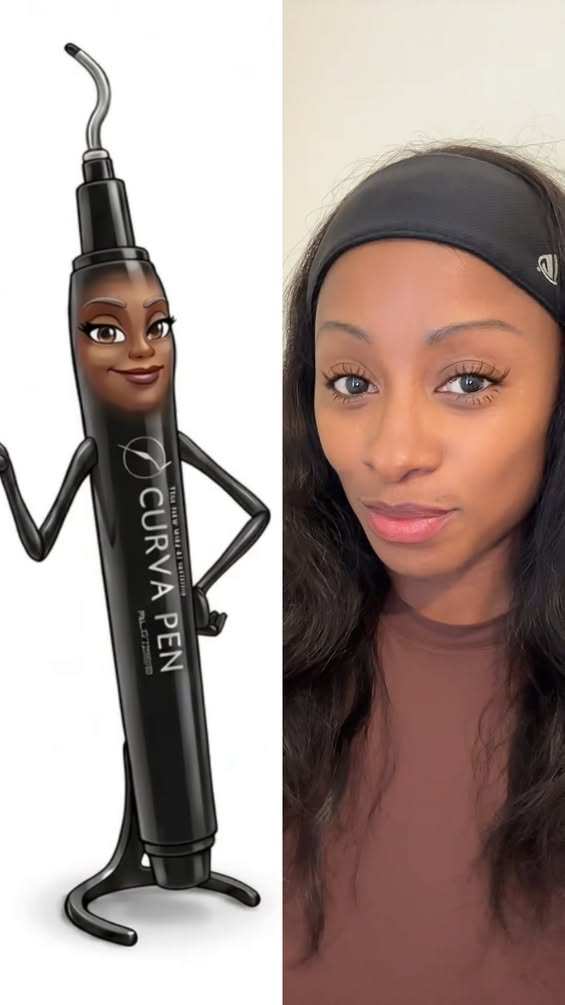
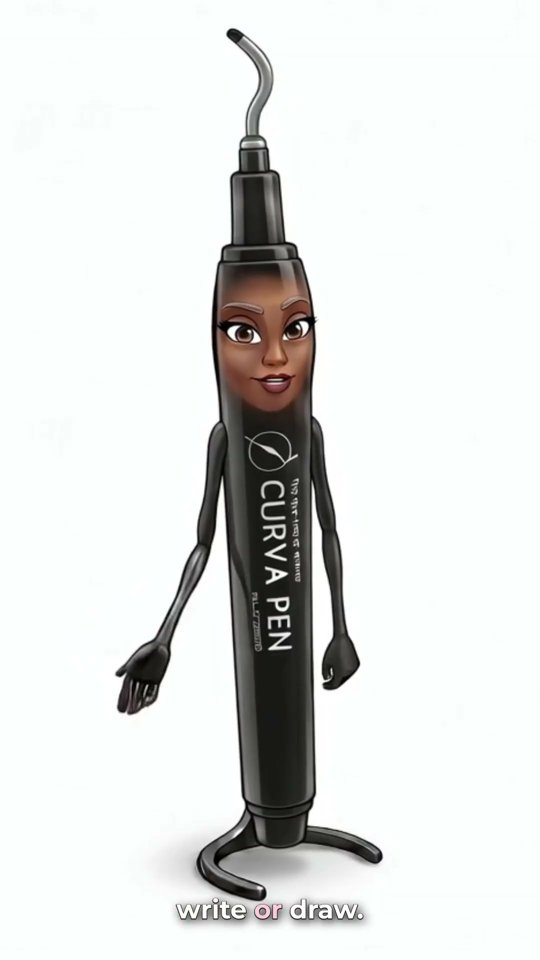
CurvaPen: Nibby YouTube short and hi-res art, stroke page short
Claude-Session: https://claude.ai/code/session_01Aqgv13NunFzq2Qc3W7ynfm

diff --git a/curvapen/hand-stroke-b.html b/curvapen/hand-stroke-b.html
@@ -246,7 +246,7 @@ ul.three p{color:var(--muted);font-size:15px}
 </div></section>
 </main><section id="video"><div class="w">
  <div class="sh c"><span class="k">See it work</span><h2>See how people hold it.</h2><p>Plays right here. Nobody gets sent off to YouTube and lost.</p></div>
- <div class="vids"><div class="vid"><button class="fr" type="button" aria-label="Play video: Stroke group" onclick="this.innerHTML='<iframe src=&quot;https://www.youtube-nocookie.com/embed/OgK0qSRckx8?autoplay=1&amp;rel=0&amp;playsinline=1&quot; title=&quot;CurvaPen video&quot; allow=&quot;autoplay; encrypted-media; picture-in-picture&quot; allowfullscreen></iframe>'"><img src="https://i.ytimg.com/vi/OgK0qSRckx8/hqdefault.jpg" alt="" loading="lazy" width="480" height="360"><span></span></button><div><h3>Stroke group</h3><p>CurvaPen at a stroke support group.</p></div></div><div class="vid"><button class="fr" type="button" aria-label="Play video: There&#x27;s no wrong way to hold it" onclick="this.innerHTML='<iframe src=&quot;https://www.youtube-nocookie.com/embed/ENOmntAvp0M?autoplay=1&amp;rel=0&amp;playsinline=1&quot; title=&quot;CurvaPen video&quot; allow=&quot;autoplay; encrypted-media; picture-in-picture&quot; allowfullscreen></iframe>'"><img src="https://i.ytimg.com/vi/ENOmntAvp0M/hqdefault.jpg" alt="" loading="lazy" width="480" height="360"><span></span></button><div><h3>There's no wrong way to hold it</h3><p>Overhand, underhand, resting hand. 30 seconds.</p></div></div></div>
+ <div class="vids"><div class="vid"><button class="fr" type="button" aria-label="Play video: Stroke recovery writing" onclick="this.innerHTML='<iframe src=&quot;https://www.youtube-nocookie.com/embed/1-OCb-0IiXI?autoplay=1&amp;rel=0&amp;playsinline=1&quot; title=&quot;CurvaPen video&quot; allow=&quot;autoplay; encrypted-media; picture-in-picture&quot; allowfullscreen></iframe>'"><img src="https://i.ytimg.com/vi/1-OCb-0IiXI/hqdefault.jpg" alt="" loading="lazy" width="480" height="360"><span></span></button><div><h3>Stroke recovery writing</h3><p>Writing again after a stroke, in 60 seconds.</p></div></div><div class="vid"><button class="fr" type="button" aria-label="Play video: There&#x27;s no wrong way to hold it" onclick="this.innerHTML='<iframe src=&quot;https://www.youtube-nocookie.com/embed/ENOmntAvp0M?autoplay=1&amp;rel=0&amp;playsinline=1&quot; title=&quot;CurvaPen video&quot; allow=&quot;autoplay; encrypted-media; picture-in-picture&quot; allowfullscreen></iframe>'"><img src="https://i.ytimg.com/vi/ENOmntAvp0M/hqdefault.jpg" alt="" loading="lazy" width="480" height="360"><span></span></button><div><h3>There's no wrong way to hold it</h3><p>Overhand, underhand, resting hand. 30 seconds.</p></div></div></div>
 </div></section>
 <section id="reviews" class="tint"><div class="w">
  <div class="sh"><span class="k">Reviews</span><h2>From people with hands like yours.</h2></div>

diff --git a/curvapen/hand-stroke.html b/curvapen/hand-stroke.html
@@ -246,7 +246,7 @@ ul.three p{color:var(--muted);font-size:15px}
 </div></section>
 </main><section id="video"><div class="w">
  <div class="sh c"><span class="k">See it work</span><h2>See how people hold it.</h2><p>Plays right here. Nobody gets sent off to YouTube and lost.</p></div>
- <div class="vids"><div class="vid"><button class="fr" type="button" aria-label="Play video: Stroke group" onclick="this.innerHTML='<iframe src=&quot;https://www.youtube-nocookie.com/embed/OgK0qSRckx8?autoplay=1&amp;rel=0&amp;playsinline=1&quot; title=&quot;CurvaPen video&quot; allow=&quot;autoplay; encrypted-media; picture-in-picture&quot; allowfullscreen></iframe>'"><img src="https://i.ytimg.com/vi/OgK0qSRckx8/hqdefault.jpg" alt="" loading="lazy" width="480" height="360"><span></span></button><div><h3>Stroke group</h3><p>CurvaPen at a stroke support group.</p></div></div><div class="vid"><button class="fr" type="button" aria-label="Play video: There&#x27;s no wrong way to hold it" onclick="this.innerHTML='<iframe src=&quot;https://www.youtube-nocookie.com/embed/ENOmntAvp0M?autoplay=1&amp;rel=0&amp;playsinline=1&quot; title=&quot;CurvaPen video&quot; allow=&quot;autoplay; encrypted-media; picture-in-picture&quot; allowfullscreen></iframe>'"><img src="https://i.ytimg.com/vi/ENOmntAvp0M/hqdefault.jpg" alt="" loading="lazy" width="480" height="360"><span></span></button><div><h3>There's no wrong way to hold it</h3><p>Overhand, underhand, resting hand. 30 seconds.</p></div></div></div>
+ <div class="vids"><div class="vid"><button class="fr" type="button" aria-label="Play video: Stroke recovery writing" onclick="this.innerHTML='<iframe src=&quot;https://www.youtube-nocookie.com/embed/1-OCb-0IiXI?autoplay=1&amp;rel=0&amp;playsinline=1&quot; title=&quot;CurvaPen video&quot; allow=&quot;autoplay; encrypted-media; picture-in-picture&quot; allowfullscreen></iframe>'"><img src="https://i.ytimg.com/vi/1-OCb-0IiXI/hqdefault.jpg" alt="" loading="lazy" width="480" height="360"><span></span></button><div><h3>Stroke recovery writing</h3><p>Writing again after a stroke, in 60 seconds.</p></div></div><div class="vid"><button class="fr" type="button" aria-label="Play video: There&#x27;s no wrong way to hold it" onclick="this.innerHTML='<iframe src=&quot;https://www.youtube-nocookie.com/embed/ENOmntAvp0M?autoplay=1&amp;rel=0&amp;playsinline=1&quot; title=&quot;CurvaPen video&quot; allow=&quot;autoplay; encrypted-media; picture-in-picture&quot; allowfullscreen></iframe>'"><img src="https://i.ytimg.com/vi/ENOmntAvp0M/hqdefault.jpg" alt="" loading="lazy" width="480" height="360"><span></span></button><div><h3>There's no wrong way to hold it</h3><p>Overhand, underhand, resting hand. 30 seconds.</p></div></div></div>
 </div></section>
 <section id="reviews" class="tint"><div class="w">
  <div class="sh"><span class="k">Reviews</span><h2>From people with hands like yours.</h2></div>

diff --git a/curvapen/website-b.html b/curvapen/website-b.html
@@ -242,7 +242,7 @@ ul.three p{color:var(--muted);font-size:15px}
   <div class="btns"><a class="buy big" href="#shop">Shop from $9.99</a><a class="ghost big" href="#who">Shop by hand</a></div>
   <div class="proof"><span><span class="stars">★★★★★</span> 1,047 verified reviews</span><span>$1M+ sold</span><span>Japanese 0.7mm nib</span><span>Ambidextrous</span></div>
  </div>
- <div class="nibhero"><div class="bubble">Hi, I'm Nibby. My secret is in the curved nib.</div><img src="/curvapen/images/nibby-solo.jpg" alt="Nibby, the CurvaPen mascot, waving" width="282" height="965"><a class="ghost" href="#how">Watch Nibby</a></div>
+ <div class="nibhero"><div class="bubble">Hi, I'm Nibby. My secret is in the curved nib.</div><img src="/curvapen/images/nibby-solo.jpg" alt="Nibby, the CurvaPen mascot" width="546" height="1190"><a class="ghost" href="#how">Watch Nibby</a></div>
 </div></section>
 </main><div class="strip"><div class="w">
  <div><b>★ 1,047</b><span>verified reviews</span></div>
@@ -251,7 +251,7 @@ ul.three p{color:var(--muted);font-size:15px}
  <div><b>30 days</b><span>refund if it isn't right</span></div>
 </div></div>
 <section id="how"><div class="w how">
- <div class="nibby"><button class="fr" type="button" aria-label="Play video: Meet Nibby" onclick="this.outerHTML='<iframe src=&quot;https://www.facebook.com/plugins/video.php?href=https%3A%2F%2Fwww.facebook.com%2FCurvaPen%2Fvideos%2F1549754383614399%2F&amp;show_text=false&amp;autoplay=true&amp;width=360&quot; title=&quot;Meet Nibby&quot; allow=&quot;autoplay; encrypted-media; picture-in-picture; web-share&quot; allowfullscreen></iframe>'"><img src="/curvapen/images/nibby-solo.jpg" alt="Nibby, the CurvaPen mascot" loading="lazy" width="282" height="965" style="object-fit:contain;background:#fff"><span></span></button><p><b>Meet Nibby.</b> "My secret is in the curved nib."</p></div>
+ <div class="nibby"><button class="fr" type="button" aria-label="Play video: Meet Nibby" onclick="this.outerHTML='<iframe src=&quot;https://www.youtube-nocookie.com/embed/OXUt8THCZTI?autoplay=1&amp;rel=0&amp;playsinline=1&quot; title=&quot;Meet Nibby&quot; allow=&quot;autoplay; encrypted-media; picture-in-picture&quot; allowfullscreen></iframe>'"><img src="/curvapen/images/nibby.jpg" alt="Nibby, the CurvaPen mascot" loading="lazy" width="540" height="960"><span></span></button><p><b>Meet Nibby.</b> "My secret is in the curved nib."</p></div>
  <div>
   <span class="k">The secret is in the nib</span>
   <h2>Everyone fixed the body. Nobody touched the tip.</h2>

diff --git a/curvapen/website.html b/curvapen/website.html
@@ -251,7 +251,7 @@ ul.three p{color:var(--muted);font-size:15px}
  <div><b>30 days</b><span>refund if it isn't right</span></div>
 </div></div>
 <section id="how"><div class="w how">
- <div class="nibby"><button class="fr" type="button" aria-label="Play video: Meet Nibby" onclick="this.outerHTML='<iframe src=&quot;https://www.facebook.com/plugins/video.php?href=https%3A%2F%2Fwww.facebook.com%2FCurvaPen%2Fvideos%2F1549754383614399%2F&amp;show_text=false&amp;autoplay=true&amp;width=360&quot; title=&quot;Meet Nibby&quot; allow=&quot;autoplay; encrypted-media; picture-in-picture; web-share&quot; allowfullscreen></iframe>'"><img src="/curvapen/images/nibby-solo.jpg" alt="Nibby, the CurvaPen mascot" loading="lazy" width="282" height="965" style="object-fit:contain;background:#fff"><span></span></button><p><b>Meet Nibby.</b> "My secret is in the curved nib."</p></div>
+ <div class="nibby"><button class="fr" type="button" aria-label="Play video: Meet Nibby" onclick="this.outerHTML='<iframe src=&quot;https://www.youtube-nocookie.com/embed/OXUt8THCZTI?autoplay=1&amp;rel=0&amp;playsinline=1&quot; title=&quot;Meet Nibby&quot; allow=&quot;autoplay; encrypted-media; picture-in-picture&quot; allowfullscreen></iframe>'"><img src="/curvapen/images/nibby.jpg" alt="Nibby, the CurvaPen mascot" loading="lazy" width="540" height="960"><span></span></button><p><b>Meet Nibby.</b> "My secret is in the curved nib."</p></div>
  <div>
   <span class="k">The secret is in the nib</span>
   <h2>Everyone fixed the body. Nobody touched the tip.</h2>
